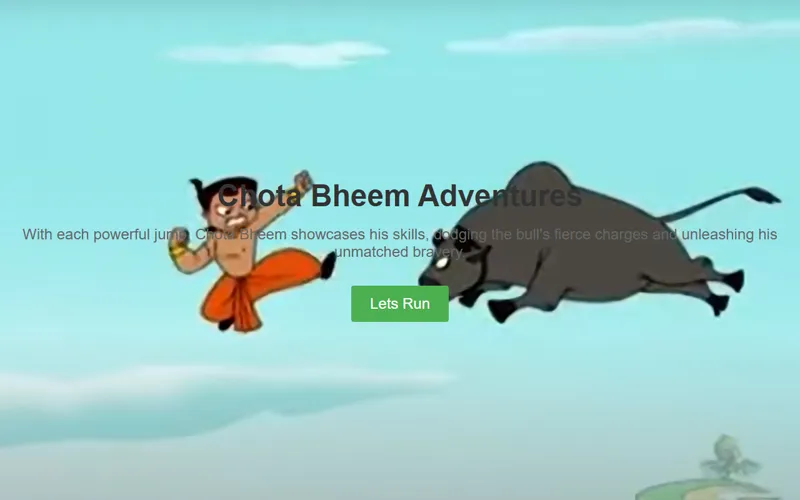
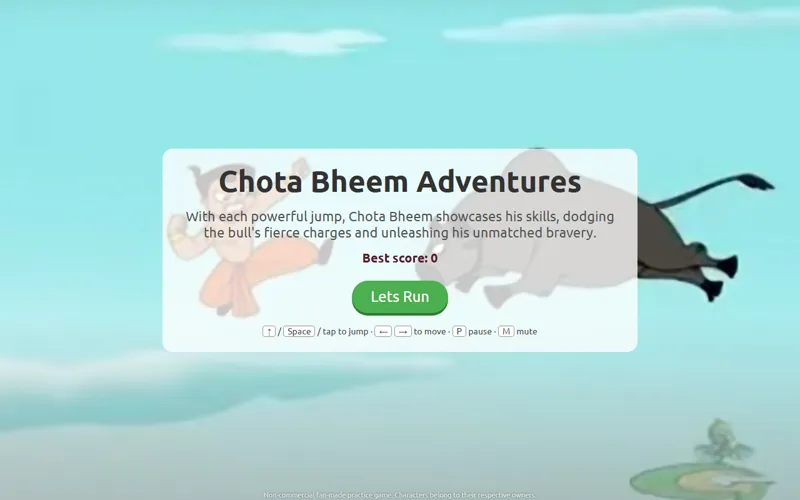
Refresh game screenshots and descriptions after the game updates

diff --git a/frontend/src/data/profile.js b/frontend/src/data/profile.js
@@ -200,7 +200,7 @@ const PAGES = 'https://akshaytripathiai.github.io';
 export const games = [
   {
     title: 'Chota Bheem Loves Ladoo',
-    description: 'Canvas game: steer Bheem to collect ladoos while enemies chase you. Levels speed up, with touch controls and a saved high score.',
+    description: 'Canvas game: collect ladoos while Kirmadas chase you. Hearts, golden ladoos, a level every 5 pickups, touch drag controls and a saved high score.',
     tags: ['HTML5 Canvas', 'JavaScript'],
     link: `${GITHUB}/Bheem-Ladoo-2`,
     demo: `${PAGES}/Bheem-Ladoo-2/`,
@@ -208,15 +208,15 @@ export const games = [
   },
   {
     title: 'Chota Bheem Adventures',
-    description: 'Endless runner built with DOM elements and CSS animations: jump over a charging bull that gets faster with every dodge.',
+    description: 'Endless runner: jump the charging bull as it speeds up and charges more often. Instant restart, tap-to-jump on phones and a best score.',
     tags: ['JavaScript', 'CSS animations'],
     link: `${GITHUB}/Chota-Bheem-Adventure-game`,
     demo: `${PAGES}/Chota-Bheem-Adventure-game/`,
     image: bheemAdventureShot,
   },
   {
-    title: 'Ladoo Dash',
-    description: 'My first canvas game: reach the ladoo while dodging bouncing enemies.',
+    title: 'Bheem Ladoo Dash',
+    description: 'Hold to run, let go to stop: time your dash between bouncing Kirmadas. Endless levels, three hearts and code-generated sound effects.',
     tags: ['HTML5 Canvas', 'JavaScript'],
     link: `${GITHUB}/basic-bheem-ladoo-game`,
     demo: `${PAGES}/basic-bheem-ladoo-game/`,
@@ -224,7 +224,7 @@ export const games = [
   },
   {
     title: 'Adventure Games',
-    description: 'Arcade launcher that loads the games above plus Gravity Ball, a CreateJS platformer where you flip gravity, from one sidebar.',
+    description: 'Arcade launcher for the games above plus Gravity Ball, a CreateJS platformer where you flip gravity to reach the goal, with checkpoints and a best time.',
     tags: ['JavaScript', 'CreateJS', 'iframes'],
     link: `${GITHUB}/Adventure-Game`,
     demo: `${PAGES}/Adventure-Game/`,

diff --git a/backend/data/profile.md b/backend/data/profile.md
@@ -95,7 +95,7 @@ Kamla Nehru Institute of Technology — B.Tech, Electronics, CGPA 9.21/10 (2019 
 
 Earlier, smaller web projects (React / JavaScript), most with live demos on GitHub Pages: ShoppyCart, GeoPicker,
 PlacePicker, QuizPlay, InvestMate, React Behind the Scenes, Simple Calculator, MyTodoList, Snapnote and Habitify
-(React Native). Browser games: Chota Bheem Loves Ladoo, Chota Bheem Adventures, Ladoo Dash, Adventure Games,
+(React Native). Browser games: Chota Bheem Loves Ladoo, Chota Bheem Adventures, Bheem Ladoo Dash, Adventure Games,
 Tic-tac-toe and The Almost Final Countdown.
 
 ## About this website
